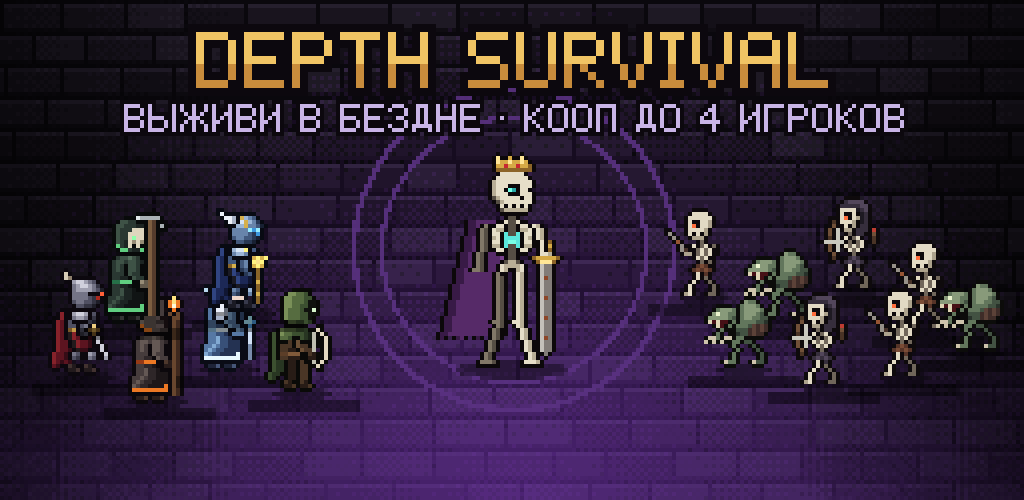
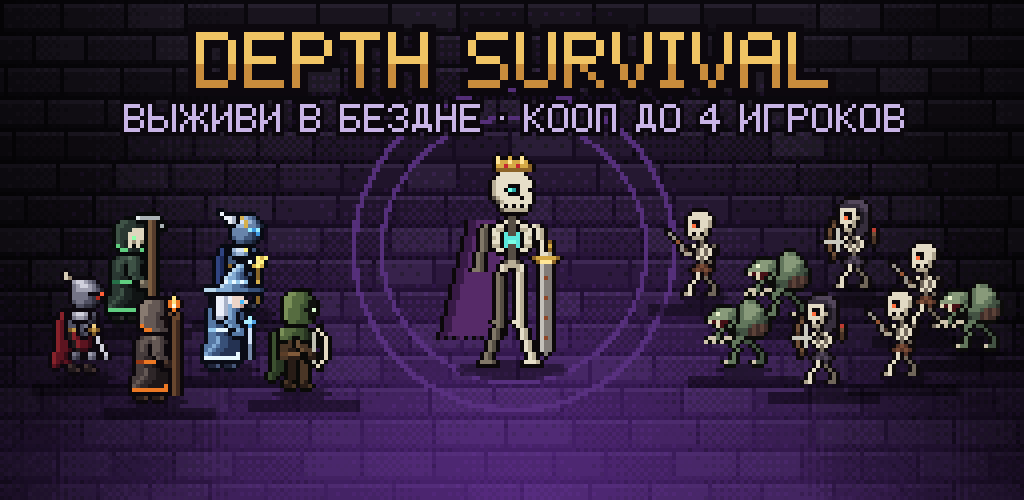
Add files via upload

diff --git a/privacy.html b/privacy.html
@@ -12,13 +12,16 @@
   * { box-sizing: border-box; }
   body { margin: 0; background: var(--bg); color: var(--fg); font: 16px/1.6 system-ui, -apple-system, "Segoe UI", Roboto, sans-serif; }
   main { max-width: 760px; margin: 0 auto; padding: 32px 16px 64px; }
+  .top { display: flex; justify-content: space-between; align-items: flex-start; gap: 12px; flex-wrap: wrap; }
   h1 { font-size: 26px; line-height: 1.25; margin: 0 0 4px; }
-  h2 { font-size: 21px; margin: 40px 0 8px; padding-top: 16px; border-top: 1px solid var(--line); }
-  h3 { font-size: 17px; margin: 24px 0 6px; color: var(--accent); }
+  h3 { font-size: 17px; margin: 28px 0 6px; color: var(--accent); }
   p, li { margin: 6px 0; }
   a { color: var(--accent); }
   .meta { color: var(--dim); margin: 0 0 16px; }
-  .lang { display: flex; gap: 12px; margin: 12px 0 0; }
+  .langs { display: flex; gap: 4px; }
+  .langs button { font: 600 14px/1 system-ui, sans-serif; color: var(--dim); background: transparent; border: 1px solid var(--line); border-radius: 6px; padding: 8px 12px; cursor: pointer; }
+  .langs button[aria-pressed="true"] { color: var(--bg); background: var(--accent); border-color: var(--accent); }
+  .langs button:focus-visible { outline: 2px solid var(--accent); outline-offset: 2px; }
   .table { overflow-x: auto; }
   table { width: 100%; border-collapse: collapse; background: var(--card); font-size: 15px; }
   th, td { text-align: left; vertical-align: top; padding: 8px 10px; border: 1px solid var(--line); }
@@ -27,73 +30,115 @@
 </head>
 <body>
 <main>
-  <h1>Depth Survival — Политика конфиденциальности / Privacy Policy</h1>
-  <p class="meta">Последнее обновление / Last updated: 2026-09-26</p>
-  <nav class="lang"><a href="#ru">Русский</a><a href="#en">English</a></nav>
+  <div class="top">
+    <div>
+      <h1 data-lang="ru">Depth Survival — Политика конфиденциальности</h1>
+      <h1 data-lang="en" hidden>Depth Survival — Privacy Policy</h1>
+      <p class="meta" data-lang="ru">Последнее обновление: 26.09.2026</p>
+      <p class="meta" data-lang="en" hidden>Last updated: 2026-09-26</p>
+    </div>
+    <div class="langs" role="group" aria-label="Язык / Language">
+      <button type="button" data-set="ru" aria-pressed="true">RU</button>
+      <button type="button" data-set="en" aria-pressed="false">EN</button>
+    </div>
+  </div>
 
-  <h2 id="ru">Русский</h2>
-  <p>Depth Survival — офлайн-игра с онлайн-кооперативом и мировыми рейтингами. Мы собираем только то, что нужно для работы этих функций.</p>
+  <section data-lang="ru">
+    <p>Depth Survival — игра, в которую можно играть без интернета; онлайн нужен только для кооператива и мировых рейтингов. Мы обрабатываем только то, что нужно для работы этих функций.</p>
 
-  <h3>Какие данные обрабатываются</h3>
-  <div class="table"><table>
-    <tr><th>Данные</th><th>Зачем</th><th>Где хранятся</th></tr>
-    <tr><td>Прогресс игры (герои, снаряжение, валюта, настройки)</td><td>Сохранение игры</td><td>Только на вашем устройстве</td></tr>
-    <tr><td>Анонимный идентификатор игрока</td><td>Вход в онлайн-функции без регистрации</td><td>Unity Authentication</td></tr>
-    <tr><td>Имя игрока (вы выбираете его сами)</td><td>Показ в лобби кооператива и в рейтингах</td><td>Unity Leaderboards, другие игроки в вашей комнате</td></tr>
-    <tr><td>Результаты забегов (время, уровень, этап)</td><td>Мировые рейтинги</td><td>Unity Leaderboards</td></tr>
-    <tr><td>Сетевой адрес (IP) во время кооп-сессии</td><td>Соединение с другими игроками через сервер-ретранслятор</td><td>Unity Relay, только на время сессии</td></tr>
-  </table></div>
-  <p>Мы <b>не</b> собираем: настоящее имя, e-mail, телефон, контакты, геолокацию, фото, платёжные данные. Игра не требует регистрации и не содержит встроенных покупок.</p>
+    <h3>Какие данные обрабатываются</h3>
+    <div class="table"><table>
+      <tr><th>Данные</th><th>Зачем</th><th>Где хранятся</th></tr>
+      <tr><td>Прогресс игры (герои, снаряжение, валюта, настройки)</td><td>Сохранение игры</td><td>Только на вашем устройстве</td></tr>
+      <tr><td>Анонимный идентификатор игрока</td><td>Вход в онлайн-функции без регистрации</td><td>Unity Authentication</td></tr>
+      <tr><td>Имя игрока (вы придумываете его сами)</td><td>Показ в лобби кооператива и в рейтингах</td><td>Unity Leaderboards, другие игроки в вашей комнате</td></tr>
+      <tr><td>Результаты забегов (время, уровень, этап)</td><td>Мировые рейтинги</td><td>Unity Leaderboards</td></tr>
+      <tr><td>Сетевой адрес (IP) во время кооп-сессии</td><td>Соединение с другими игроками через сервер-ретранслятор</td><td>Unity Relay, только на время сессии</td></tr>
+    </table></div>
+    <p>Мы <b>не</b> собираем: настоящее имя, e-mail, телефон, контакты, геолокацию, фото, платёжные данные. Игра не требует регистрации и не содержит встроенных покупок.</p>
 
-  <h3>Сторонние сервисы</h3>
-  <p>Онлайн-функции работают на Unity Gaming Services (Unity Technologies): Authentication, Relay, Leaderboards. Их политика: <a href="https://unity.com/legal/privacy-policy">unity.com/legal/privacy-policy</a>.</p>
-  <p>Если в игру будет добавлена реклама за вознаграждение, она будет показываться только по вашему нажатию, а эта политика будет обновлена с указанием рекламного провайдера.</p>
+    <h3>Сторонние сервисы</h3>
+    <p>Онлайн-функции работают на Unity Gaming Services (Unity Technologies): Authentication, Relay, Leaderboards. Их политика: <a href="https://unity.com/legal/privacy-policy">unity.com/legal/privacy-policy</a>.</p>
+    <p>Если в игру будет добавлена реклама за вознаграждение, она будет показываться только по вашему нажатию, а эта политика будет обновлена с указанием рекламного провайдера.</p>
 
-  <h3>Ваш контроль</h3>
-  <ul>
-    <li>Играть можно без интернета — тогда никакие данные не отправляются.</li>
-    <li>Имя игрока можно сменить в настройках в любой момент.</li>
-    <li>«Сброс прогресса» в настройках удаляет сохранение на устройстве.</li>
-    <li>Чтобы удалить данные рейтингов и анонимный аккаунт, создайте обращение: <a href="https://github.com/L1xF1x/L1xF1x.github.io/issues">github.com/L1xF1x/L1xF1x.github.io/issues</a>.</li>
-  </ul>
+    <h3>Ваш контроль</h3>
+    <ul>
+      <li>Играть можно без интернета — тогда никакие данные не отправляются.</li>
+      <li>Имя игрока вы придумываете сами; его видят другие игроки в кооперативе и в рейтингах. Не используйте в нём настоящие имя и фамилию.</li>
+      <li>«Сброс прогресса» в настройках удаляет сохранение на устройстве.</li>
+      <li>Чтобы удалить данные рейтингов и анонимный аккаунт, создайте обращение: <a href="https://github.com/L1xF1x/L1xF1x.github.io/issues">github.com/L1xF1x/L1xF1x.github.io/issues</a>.</li>
+    </ul>
 
-  <h3>Дети</h3>
-  <p>Игра не предназначена для сбора данных детей и не запрашивает персональную информацию.</p>
+    <h3>Дети</h3>
+    <p>Игра не предназначена для сбора данных детей и не запрашивает персональную информацию.</p>
 
-  <h3>Изменения</h3>
-  <p>Новая версия политики публикуется по этому адресу; дата вверху обновляется.</p>
+    <h3>Изменения</h3>
+    <p>Новая версия политики публикуется по этому адресу; дата вверху обновляется.</p>
+  </section>
 
-  <h2 id="en">English</h2>
-  <p>Depth Survival is an offline game with online co-op and world leaderboards. We only process what those features need.</p>
+  <section data-lang="en" hidden>
+    <p>Depth Survival can be played without an internet connection; it only goes online for co-op and the world leaderboards. We only process what those features need.</p>
 
-  <h3>Data we process</h3>
-  <div class="table"><table>
-    <tr><th>Data</th><th>Purpose</th><th>Stored</th></tr>
-    <tr><td>Game progress (heroes, gear, currency, settings)</td><td>Saving your game</td><td>On your device only</td></tr>
-    <tr><td>Anonymous player ID</td><td>Online features without registration</td><td>Unity Authentication</td></tr>
-    <tr><td>Player name (chosen by you)</td><td>Shown in co-op lobbies and leaderboards</td><td>Unity Leaderboards, other players in your room</td></tr>
-    <tr><td>Run results (time, level, stage)</td><td>World leaderboards</td><td>Unity Leaderboards</td></tr>
-    <tr><td>Network address (IP) during a co-op session</td><td>Connecting players through a relay server</td><td>Unity Relay, for the session only</td></tr>
-  </table></div>
-  <p>We do <b>not</b> collect your real name, e-mail, phone number, contacts, location, photos or payment data. The game needs no account and has no in-app purchases.</p>
+    <h3>Data we process</h3>
+    <div class="table"><table>
+      <tr><th>Data</th><th>Purpose</th><th>Stored</th></tr>
+      <tr><td>Game progress (heroes, gear, currency, settings)</td><td>Saving your game</td><td>On your device only</td></tr>
+      <tr><td>Anonymous player ID</td><td>Online features without registration</td><td>Unity Authentication</td></tr>
+      <tr><td>Player name (you make it up yourself)</td><td>Shown in co-op lobbies and leaderboards</td><td>Unity Leaderboards, other players in your room</td></tr>
+      <tr><td>Run results (time, level, stage)</td><td>World leaderboards</td><td>Unity Leaderboards</td></tr>
+      <tr><td>Network address (IP) during a co-op session</td><td>Connecting players through a relay server</td><td>Unity Relay, for the session only</td></tr>
+    </table></div>
+    <p>We do <b>not</b> collect your real name, e-mail, phone number, contacts, location, photos or payment data. The game needs no account and has no in-app purchases.</p>
 
-  <h3>Third-party services</h3>
-  <p>Online features run on Unity Gaming Services (Unity Technologies): Authentication, Relay, Leaderboards. Their policy: <a href="https://unity.com/legal/privacy-policy">unity.com/legal/privacy-policy</a>.</p>
-  <p>If rewarded ads are added later, they will only play when you tap to watch one, and this policy will be updated to name the ad provider.</p>
+    <h3>Third-party services</h3>
+    <p>Online features run on Unity Gaming Services (Unity Technologies): Authentication, Relay, Leaderboards. Their policy: <a href="https://unity.com/legal/privacy-policy">unity.com/legal/privacy-policy</a>.</p>
+    <p>If rewarded ads are added later, they will only play when you tap to watch one, and this policy will be updated to name the ad provider.</p>
 
-  <h3>Your choices</h3>
-  <ul>
-    <li>You can play offline; then no data is sent at all.</li>
-    <li>You can change your player name in Settings at any time.</li>
-    <li>"Reset progress" in Settings deletes the save on your device.</li>
-    <li>To delete leaderboard entries and the anonymous account, open an issue: <a href="https://github.com/L1xF1x/L1xF1x.github.io/issues">github.com/L1xF1x/L1xF1x.github.io/issues</a>.</li>
-  </ul>
+    <h3>Your choices</h3>
+    <ul>
+      <li>You can play offline; then no data is sent at all.</li>
+      <li>You make up your player name yourself; other players see it in co-op and on the leaderboards. Don't use your real name in it.</li>
+      <li>"Reset progress" in Settings deletes the save on your device.</li>
+      <li>To delete leaderboard entries and the anonymous account, open an issue: <a href="https://github.com/L1xF1x/L1xF1x.github.io/issues">github.com/L1xF1x/L1xF1x.github.io/issues</a>.</li>
+    </ul>
 
-  <h3>Children</h3>
-  <p>The game is not designed to collect children's data and never asks for personal information.</p>
+    <h3>Children</h3>
+    <p>The game is not designed to collect children's data and never asks for personal information.</p>
 
-  <h3>Changes</h3>
-  <p>New versions of this policy are published at this address with an updated date.</p>
+    <h3>Changes</h3>
+    <p>New versions of this policy are published at this address with an updated date.</p>
+  </section>
 </main>
+<script>
+  // one language at a time: #ru / #en in the link, then the visitor's earlier choice, then the browser language
+  (function () {
+    function pick() {
+      var h = location.hash.replace('#', '');
+      if (h === 'ru' || h === 'en') return h;
+      try { var s = localStorage.getItem('lang'); if (s === 'ru' || s === 'en') return s; } catch (e) {}
+      var langs = navigator.languages || [navigator.language || ''];
+      for (var i = 0; i < langs.length; i++) {
+        var l = String(langs[i]).toLowerCase();
+        if (/^(ru|uk|be|kk)/.test(l)) return 'ru';
+        if (l) return 'en';
+      }
+      return 'ru';
+    }
+    function show(lang) {
+      document.documentElement.lang = lang;
+      document.querySelectorAll('[data-lang]').forEach(function (el) { el.hidden = el.getAttribute('data-lang') !== lang; });
+      document.querySelectorAll('[data-set]').forEach(function (b) { b.setAttribute('aria-pressed', String(b.getAttribute('data-set') === lang)); });
+    }
+    document.querySelectorAll('[data-set]').forEach(function (b) {
+      b.addEventListener('click', function () {
+        var lang = b.getAttribute('data-set');
+        try { localStorage.setItem('lang', lang); } catch (e) {}
+        history.replaceState(null, '', '#' + lang);
+        show(lang);
+      });
+    });
+    show(pick());
+  })();
+</script>
 </body>
 </html>

diff --git a/index.html b/index.html
@@ -4,22 +4,27 @@
 <meta charset="utf-8">
 <meta name="viewport" content="width=device-width, initial-scale=1">
 <title>Depth Survival</title>
-<meta name="description" content="Тёмное фэнтези-выживание: 15 героев, 270 способностей, онлайн-кооп до 4 игроков. Dark fantasy survival for Android.">
+<meta name="description" content="Тёмное фэнтези-выживание для Android: 15 героев, 270 способностей, онлайн-кооп до 4 игроков. Dark fantasy survival for Android.">
 <link rel="icon" href="img/icon.png">
 <style>
   :root { --bg: #16121a; --fg: #ece6dc; --dim: #a39a90; --accent: #e2b45a; --line: #3a3140; --card: #1f1a24; }
   * { box-sizing: border-box; }
   body { margin: 0; background: var(--bg); color: var(--fg); font: 16px/1.6 system-ui, -apple-system, "Segoe UI", Roboto, sans-serif; }
   main { max-width: 900px; margin: 0 auto; padding: 24px 16px 64px; }
-  header { display: flex; align-items: center; gap: 16px; }
+  header { display: flex; align-items: center; gap: 16px; flex-wrap: wrap; }
   header img { width: 72px; height: 72px; image-rendering: pixelated; border-radius: 14px; }
+  .brand { flex: 1 1 240px; }
   h1 { font-size: 32px; margin: 0; color: var(--accent); letter-spacing: 0.5px; }
   .tag { color: var(--dim); margin: 2px 0 0; }
+  .langs { display: flex; gap: 4px; }
+  .langs button { font: 600 14px/1 system-ui, sans-serif; color: var(--dim); background: transparent; border: 1px solid var(--line); border-radius: 6px; padding: 8px 12px; cursor: pointer; }
+  .langs button[aria-pressed="true"] { color: var(--bg); background: var(--accent); border-color: var(--accent); }
+  .langs button:focus-visible { outline: 2px solid var(--accent); outline-offset: 2px; }
   .banner { width: 100%; height: auto; margin: 24px 0 8px; border-radius: 10px; image-rendering: pixelated; }
   h2 { font-size: 20px; margin: 32px 0 8px; }
   ul { padding-left: 20px; }
   li { margin: 4px 0; }
-  .shots { display: grid; grid-template-columns: repeat(3, minmax(0, 1fr)); gap: 12px; margin-top: 16px; }
+  .shots { display: grid; grid-template-columns: repeat(3, minmax(0, 1fr)); gap: 12px; margin-top: 24px; }
   .shots img { width: 100%; height: auto; border-radius: 8px; border: 1px solid var(--line); image-rendering: pixelated; }
   @media (max-width: 560px) { .shots { grid-template-columns: repeat(2, minmax(0, 1fr)); } .shots img:last-child { display: none; } }
   a { color: var(--accent); }
@@ -30,39 +35,87 @@
 <main>
   <header>
     <img src="img/icon.png" alt="">
-    <div>
+    <div class="brand">
       <h1>Depth Survival</h1>
-      <p class="tag">Тёмное фэнтези-выживание для Android · Dark fantasy survival for Android</p>
+      <p class="tag" data-lang="ru">Тёмное фэнтези-выживание для Android</p>
+      <p class="tag" data-lang="en" hidden>Dark fantasy survival for Android</p>
+    </div>
+    <div class="langs" role="group" aria-label="Язык / Language">
+      <button type="button" data-set="ru" aria-pressed="true">RU</button>
+      <button type="button" data-set="en" aria-pressed="false">EN</button>
     </div>
   </header>
 
-  <img class="banner" src="img/feature.png" alt="Depth Survival">
+  <div data-lang="ru">
+    <img class="banner" src="img/feature.png" alt="Depth Survival — выживи в Бездне, кооп до 4 игроков">
+    <h2>Об игре</h2>
+    <p>Спустись в Бездну и продержись как можно дольше против бесконечных орд нежити.</p>
+    <ul>
+      <li>Одна рука, один палец — способности бьют сами, твоя задача двигаться и выбирать улучшения.</li>
+      <li>15 классов, у каждого 18 способностей — возьми в забег любые 6 и собери свою сборку.</li>
+      <li>5 актов по 5 этапов, 20 видов врагов, 5 стражей и 6 боссов.</li>
+      <li>Снаряжение: 7 слотов, 12 сетов с особыми эффектами, стихийный резонанс.</li>
+      <li>Онлайн-кооп до 4 игроков по коду комнаты, мировые рейтинги, Кошмар и Бесконечная Бездна.</li>
+    </ul>
+  </div>
 
-  <h2>Об игре</h2>
-  <p>Спустись в Бездну и продержись как можно дольше против бесконечных орд нежити.</p>
-  <ul>
-    <li>Одна рука, один палец — способности бьют сами, твоя задача двигаться и выбирать улучшения.</li>
-    <li>15 классов, у каждого 18 способностей — возьми в забег любые 6 и собери свою сборку.</li>
-    <li>5 актов по 5 этапов, 20 видов врагов, 5 стражей и 6 боссов.</li>
-    <li>Снаряжение: 7 слотов, 12 сетов с особыми эффектами, стихийный резонанс.</li>
-    <li>Онлайн-кооп до 4 игроков по коду комнаты, мировые рейтинги, Кошмар и Бесконечная Бездна.</li>
-  </ul>
-
-  <h2>About</h2>
-  <p>Descend into the Abyss and survive endless undead hordes for as long as you can. 15 classes with 18 abilities each,
-     5 acts, 6 bosses, gear sets, online co-op for up to 4 players and world leaderboards.</p>
+  <div data-lang="en" hidden>
+    <img class="banner" src="img/feature_en.png" alt="Depth Survival — survive the Abyss, co-op for up to 4">
+    <h2>About</h2>
+    <p>Descend into the Abyss and survive endless undead hordes for as long as you can.</p>
+    <ul>
+      <li>One hand, one finger — abilities fire on their own; you move and pick upgrades.</li>
+      <li>15 classes with 18 abilities each — take any 6 into a run and craft your build.</li>
+      <li>5 acts × 5 stages, 20 enemy types, 5 guardians and 6 bosses.</li>
+      <li>Gear: 7 slots, 12 sets with unique effects, elemental resonance.</li>
+      <li>Online co-op for up to 4 players with a room code, world leaderboards, Nightmare mode and the Endless Abyss.</li>
+    </ul>
+  </div>
 
   <div class="shots">
-    <img src="img/screen_1.png" alt="Скриншот 1">
-    <img src="img/screen_3.png" alt="Скриншот 2">
-    <img src="img/screen_4.png" alt="Скриншот 3">
+    <img src="img/screen_1.png" alt="">
+    <img src="img/screen_3.png" alt="">
+    <img src="img/screen_4.png" alt="">
   </div>
 
   <footer>
-    <a href="privacy.html">Политика конфиденциальности / Privacy policy</a>
-    <a href="https://github.com/L1xF1x/L1xF1x.github.io/issues">Связь с разработчиком / Contact</a>
+    <a href="privacy.html#ru" data-lang="ru">Политика конфиденциальности</a>
+    <a href="privacy.html#en" data-lang="en" hidden>Privacy policy</a>
+    <a href="https://github.com/L1xF1x/L1xF1x.github.io/issues" data-lang="ru">Связь с разработчиком</a>
+    <a href="https://github.com/L1xF1x/L1xF1x.github.io/issues" data-lang="en" hidden>Contact the developer</a>
     <span>© 2026 LixFix</span>
   </footer>
 </main>
+<script>
+  // one language at a time: #ru / #en in the link, then the visitor's earlier choice, then the browser language
+  (function () {
+    function pick() {
+      var h = location.hash.replace('#', '');
+      if (h === 'ru' || h === 'en') return h;
+      try { var s = localStorage.getItem('lang'); if (s === 'ru' || s === 'en') return s; } catch (e) {}
+      var langs = navigator.languages || [navigator.language || ''];
+      for (var i = 0; i < langs.length; i++) {
+        var l = String(langs[i]).toLowerCase();
+        if (/^(ru|uk|be|kk)/.test(l)) return 'ru';
+        if (l) return 'en';
+      }
+      return 'ru';
+    }
+    function show(lang) {
+      document.documentElement.lang = lang;
+      document.querySelectorAll('[data-lang]').forEach(function (el) { el.hidden = el.getAttribute('data-lang') !== lang; });
+      document.querySelectorAll('[data-set]').forEach(function (b) { b.setAttribute('aria-pressed', String(b.getAttribute('data-set') === lang)); });
+    }
+    document.querySelectorAll('[data-set]').forEach(function (b) {
+      b.addEventListener('click', function () {
+        var lang = b.getAttribute('data-set');
+        try { localStorage.setItem('lang', lang); } catch (e) {}
+        history.replaceState(null, '', '#' + lang);
+        show(lang);
+      });
+    });
+    show(pick());
+  })();
+</script>
 </body>
 </html>
